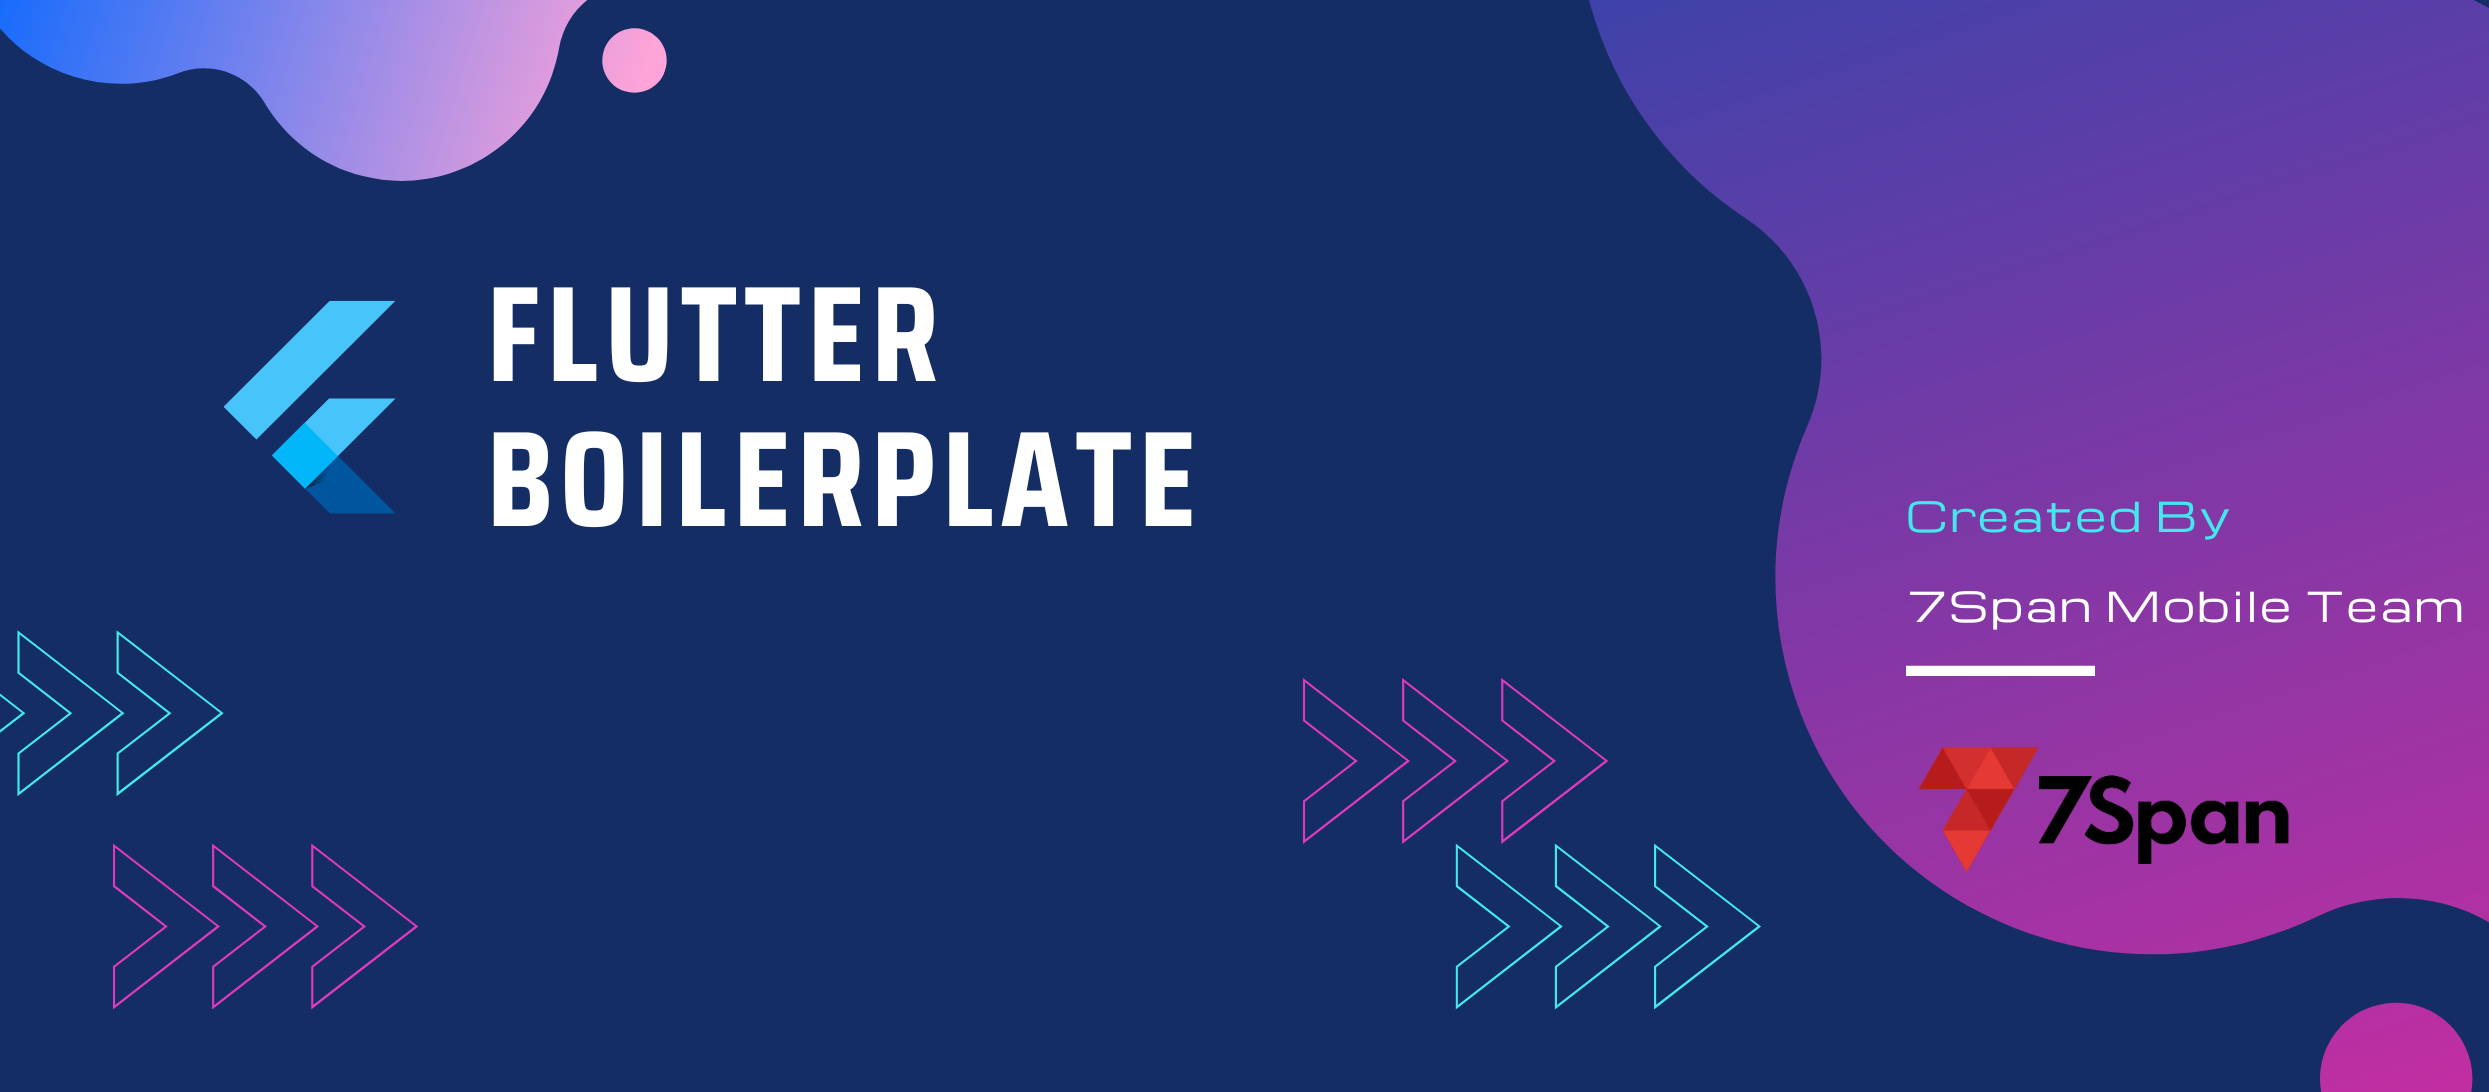
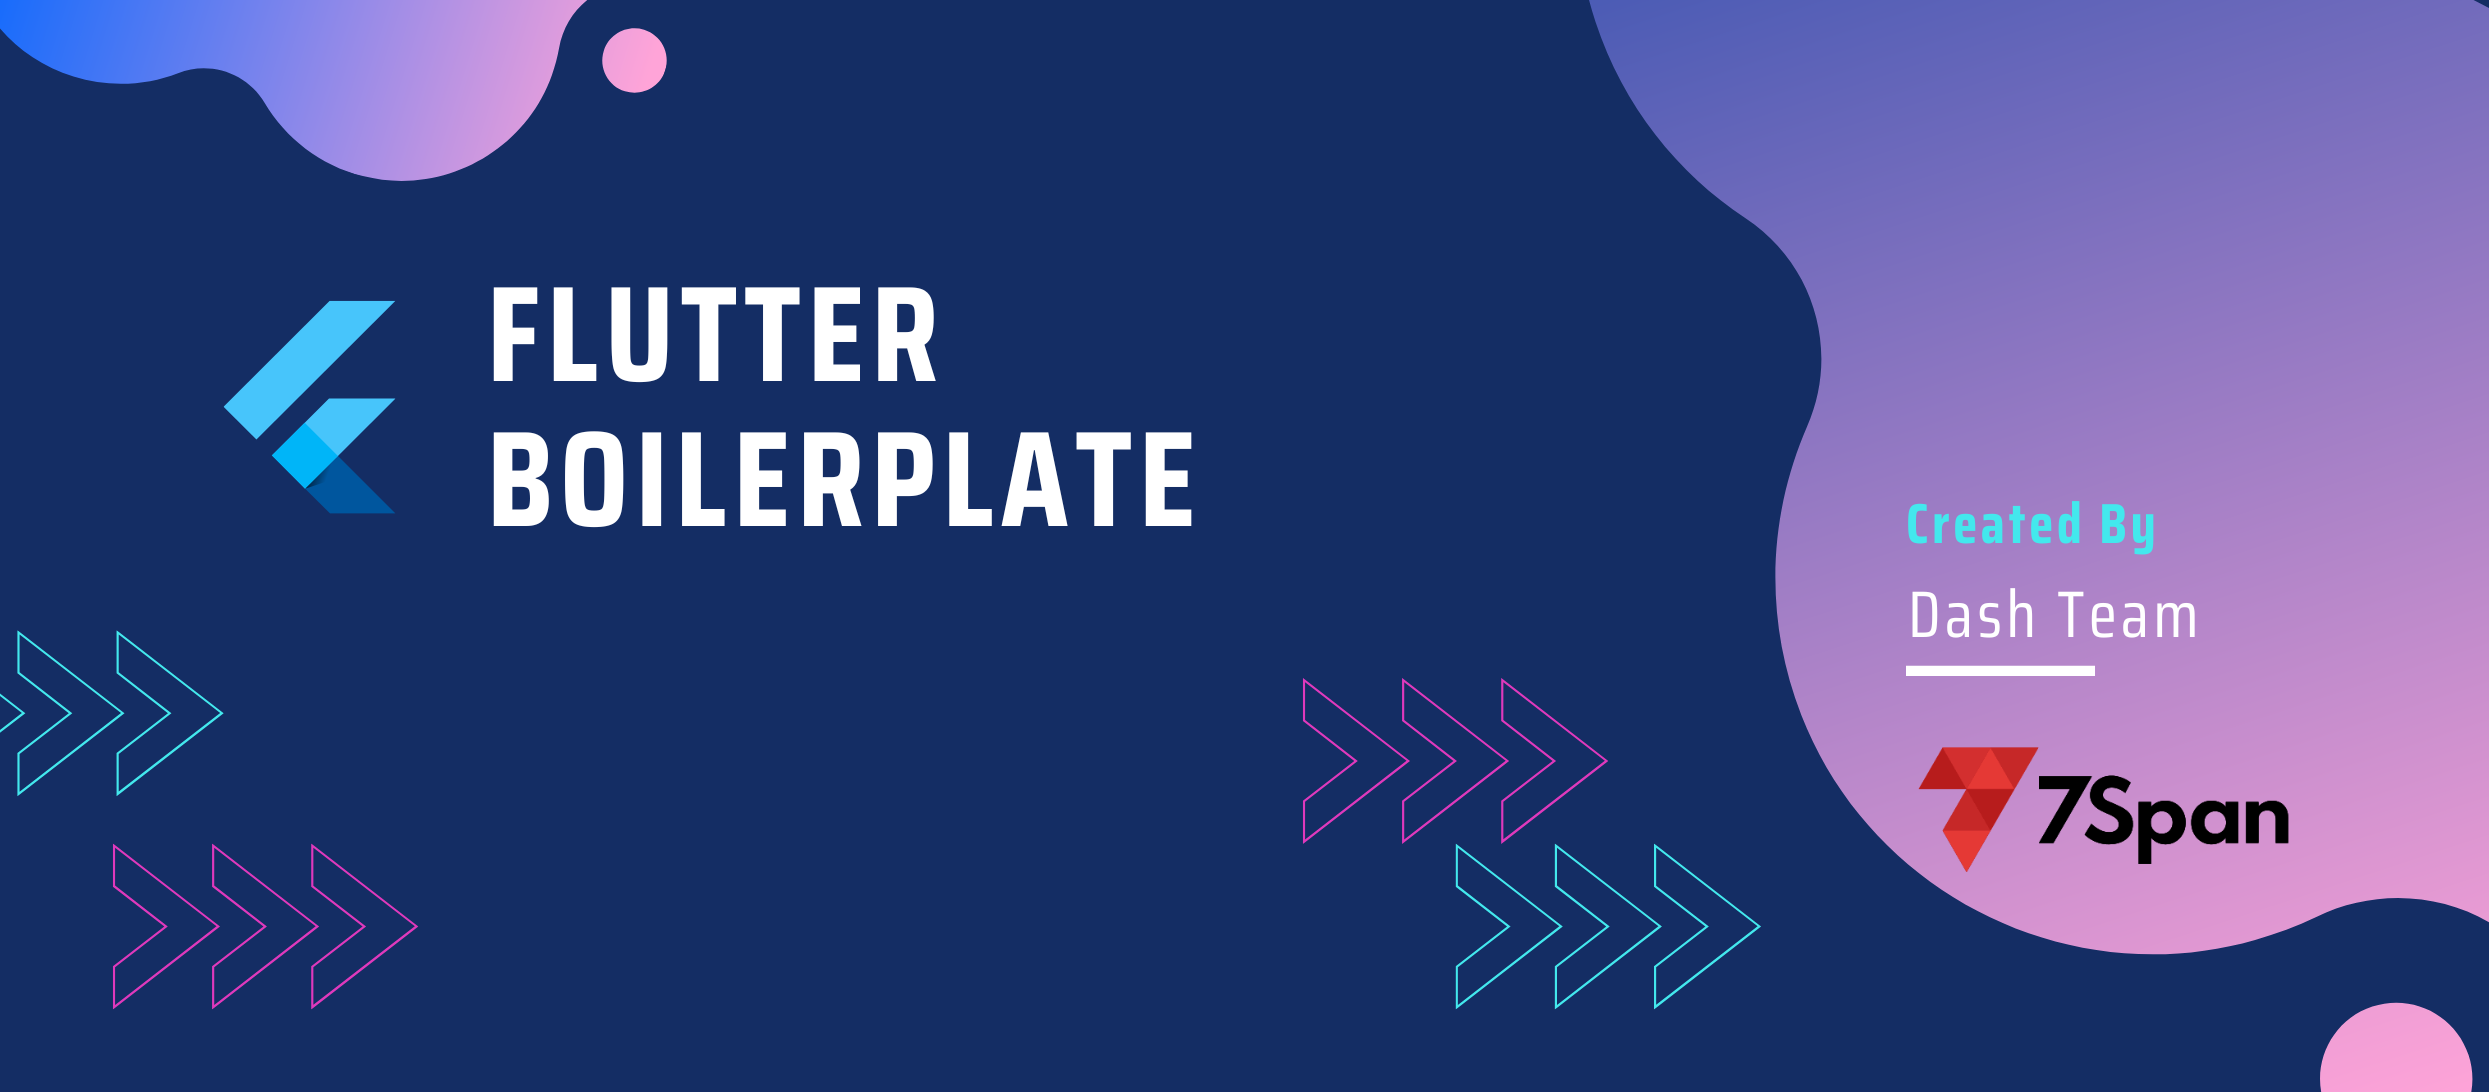
docs: Update project description, features, and contact information.

Changed region(s): [[0.6187, 0.0, 1.0, 0.8718], [0.9281, 0.9029, 1.0, 1.0]]

diff --git a/README.md b/README.md
@@ -10,21 +10,21 @@
 
 # 📝 Features:
 
-- Leverages Melos for mono-repo structure. ⚙
-- BLoC Architecture for scalable state management.🏗
-- Navigator 2.0 Routing with auto_route for seamless navigation.🛣
-- Pre-configured Environment Handling with envied for secure variables.🔐
+- Leverages melos for mono-repo structure. ⚙
+- BLoC architecture for scalable state management.🏗
+- Navigator 2.0 routing with auto_route for seamless navigation.🛣
+- Pre-configured environment handling with envied for secure variables.🔐
 - Pre-set Firebase and flavor configuration for multi-environment support.🔥
-- One-click Setup with scripts to initialize the boilerplate in seconds. ⚡
-- Well-structured Documentation for easy onboarding.📖
-- Pre-defined Custom Widgets to speed up UI development. 🧱
-- Atomic Design Pattern for modular and maintainable UI.⚛
-- Enhanced Features with built-in **app_notification**, **authentication module** and **app_subscription** packages. 🚀
+- One-click setup with scripts to initialize the boilerplate in seconds. ⚡
+- Well-structured documentation for easy onboarding.📖
+- Pre-defined custom widgets to speed up UI development. 🧱
+- **Atomic Design Pattern** for modular and maintainable UI.⚛
+- Enhanced features with built-in [app_notification](https://codelabs-preview.appspot.com/?file_id=1BDawGTK-riXb-PjwFCCqjwZ74yhdzFapw9kT2yJnp88#13), [authentication module](https://codelabs-preview.appspot.com/?file_id=1BDawGTK-riXb-PjwFCCqjwZ74yhdzFapw9kT2yJnp88#14) and [app_subscription](https://codelabs-preview.appspot.com/?file_id=1BDawGTK-riXb-PjwFCCqjwZ74yhdzFapw9kT2yJnp88#15) packages. 🚀
 
 # 🗂 Documentation
 
-Built with ❤ using Google Codelab for a seamless learning experience.
-- Explore the step-by-step guide on [Google Codelab](https://codelabs-preview.appspot.com/?file_id=1BDawGTK-riXb-PjwFCCqjwZ74yhdzFapw9kT2yJnp88#0).
+Built with ❤ using Codelab for a seamless learning experience.
+- Explore the step-by-step guide on [Codelab](https://codelabs-preview.appspot.com/?file_id=1BDawGTK-riXb-PjwFCCqjwZ74yhdzFapw9kT2yJnp88#0).
 
 # 🏁 Getting Started
 
@@ -54,4 +54,4 @@ or submit a pull request.
 
 # 📬 Contact
 
-For issues or suggestions, open an issue or reach out at cavin@7span.com
+For issues or suggestions, open an issue or reach out at dash@7span.com.
